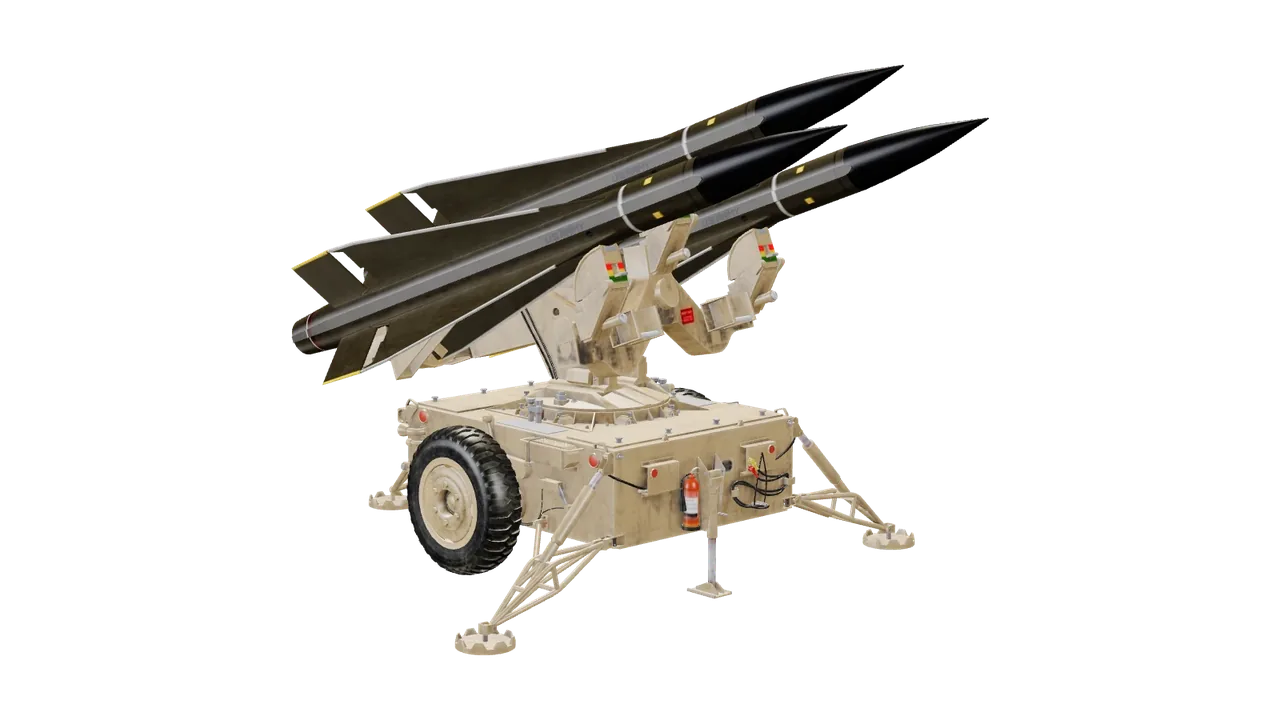
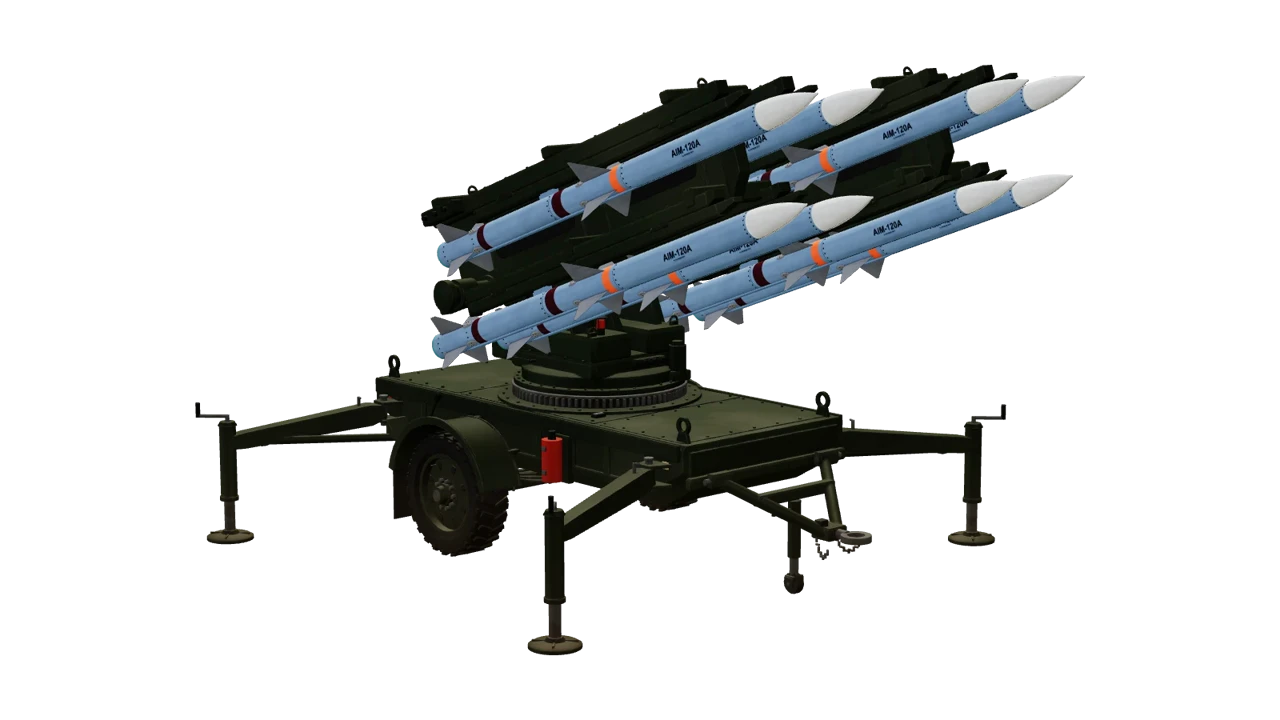
Воздушное превосходство: экран подбора — Hawk XXI на своей пусковой с восемью ракетами
poses.html: ракеты на направляющих (railMsl), цилиндр «Бука» (lift), поднятая антенна «Тора» (fold), открытые шторки — как в thumbs.html.

Changed region(s): [[0.1562, 0.0917, 0.8438, 0.9167]]

diff --git a/fortuna-bot-web/tools/airdef-models/poses.html b/fortuna-bot-web/tools/airdef-models/poses.html
@@ -33,6 +33,7 @@ async function unitObj(key) {
   await wait(() => unitModelGlb(key), 60); const gm = unitModelGlb(key), g = new THREE.Group();
   const mesh = (geo, p) => p.add(new THREE.Mesh(geo, unitMat));
   if (gm) g.add(gm.body); else if (md.body) mesh(md.body, g);
+  if (gm && md.LN && md.LN.shut) gm.sh.forEach((s, i) => { const P = md.LN.shut.piv[i]; if (!s || !P) return; const pv = new THREE.Group(); s.position.set(-P[0], -P[1], -P[2]); pv.add(s); pv.position.fromArray(P); pv.rotation.x = md.LN.shut.open; g.add(pv); }); // «Тор-М2»: шторки окон открыты, как в бою
   if (md.dish && !gm) { const d = new THREE.Mesh(md.dish, unitMat); d.position.set(md.dishXZ[0], md.dishY, md.dishXZ[1]); g.add(d); }
   const tur = [];
   if (md.LN) for (const Ld of md.LN.L) {
@@ -40,16 +41,18 @@ async function unitObj(key) {
     if (gm) { if (gm.turret) tg.add(gm.turret.clone()); if (gm.cradle) cg.add(gm.cradle.clone()); }
     else { if (md.turret) mesh(md.turret, tg); const lg = launcherGlb(key); if (lg) { cg.add(lg); lg.position.set(Ld.slots[0][0], Ld.slots[0][1] - 0.06, Ld.slots[0][2]); } else if (md.cradle) mesh(md.cradle, cg); }
     if (gm && gm.missile) for (const sp of Ld.slots) { const q = new THREE.Group(); q.add(gm.missile.clone()); if (gm.booster) q.add(gm.booster.clone()); q.position.fromArray(sp); cg.add(q); }
+    if (gm && !gm.missile && md.LN.railMsl && await wait(() => unitMissileGlb(key, true), 60)) for (const sp of Ld.slots) { const q = unitMissileGlb(key, true).missile; q.position.fromArray(sp); cg.add(q); } // «Бук-М1», Chaparral, Hawk XXI: своя ракета на направляющих
     if (md.slotGeo && !gm) for (const sp of Ld.slots) { const sm = new THREE.Mesh(md.slotGeo, md.LN.box ? unitMat : wMat); sm.position.fromArray(sp); cg.add(sm); }
     if (gm && gm.lids) for (const l of gm.lids) if (l) { const q = l.clone(); if (md.LN.blowLids) q.position.set(-Ld.cp[0], -Ld.cp[1], -Ld.cp[2]); ((md.LN.lids && md.LN.lids.onPack) || md.LN.blowLids ? cg : tg).add(q); } // крышки ячеек «Тора» и контейнеров NASAMS — закрыты, в осях башни; С-300 и Patriot — на пакете (Patriot: lid* в осях башни — сдвиг на −cp)
     if (gm && gm.tdish) tg.add(gm.tdish.clone()); // антенна сопровождения «Тора» — в положении покоя
     tg.rotation.y = md.LN.yaw0 || 0; cg.rotation.x = md.LN.el ?? 0.35; tg.add(cg); g.add(tg); tur.push(tg); // как стоит в бою (sim/strike.js: lyaw, lel)
   }
   if (gm && gm.radar) (tur.length ? tur[0] : g).add(gm.radar.clone()); // без башни (Sentinel) — антенна на машине
-  if (gm && md.LN && md.LN.erect) { // С-300: как в бою — домкраты на земле, цилиндр выдвинут к поднятому пакету
-    const E = md.LN.erect; for (const j of gm.jacks) if (j) { j.position.y = -E.jack; g.add(j); }
+  const F = md.LN && md.LN.fold; if (gm && F && gm.rfold && tur.length) { const H = F.hinge, fp = new THREE.Group(); gm.rfold.position.set(-H[0], -H[1], -H[2]); fp.add(gm.rfold); fp.position.fromArray(H); fp.rotation.x = F.angle; tur[0].add(fp); } // «Тор-М2», «Тор-М1»: антенна обнаружения поднята
+  if (gm && md.LN && (md.LN.erect || md.LN.lift)) { // С-300: как в бою — домкраты на земле, цилиндр выдвинут к поднятому пакету; «Бук-М1» — цилиндр к пакету под углом кадра
+    const E = md.LN.erect || md.LN.lift; for (const j of gm.jacks) if (j) { j.position.y = -E.jack; g.add(j); }
     [E, E.cyl2].filter(Boolean).forEach((cy, k) => { // Patriot — ещё подкос (cyl3…5)
-      const A = cy.cylA, q = cylPose(md.LN, md.LN.el, cy), pv = new THREE.Group(); pv.position.fromArray(A); pv.rotation.x = q.rot; g.add(pv);
+      const A = cy.cylA, q = cylPose(md.LN, md.LN.el ?? 0.35, cy), pv = new THREE.Group(); pv.position.fromArray(A); pv.rotation.x = q.rot; g.add(pv);
       gm.cyl.slice(k * 3, k * 3 + 3).forEach((c, i) => { if (!c) return; c.position.set(-A[0], -A[1], -A[2]); const w = new THREE.Group(); w.add(c); w.position.fromArray(q.dir).multiplyScalar(q.ext * i / 2); pv.add(w); });
     });
     if (E.mast && gm.mast) gm.mast.forEach((m, i) => { if (m) { m.position.y = E.mast[i]; g.add(m); } }); // Patriot: мачта поднята
